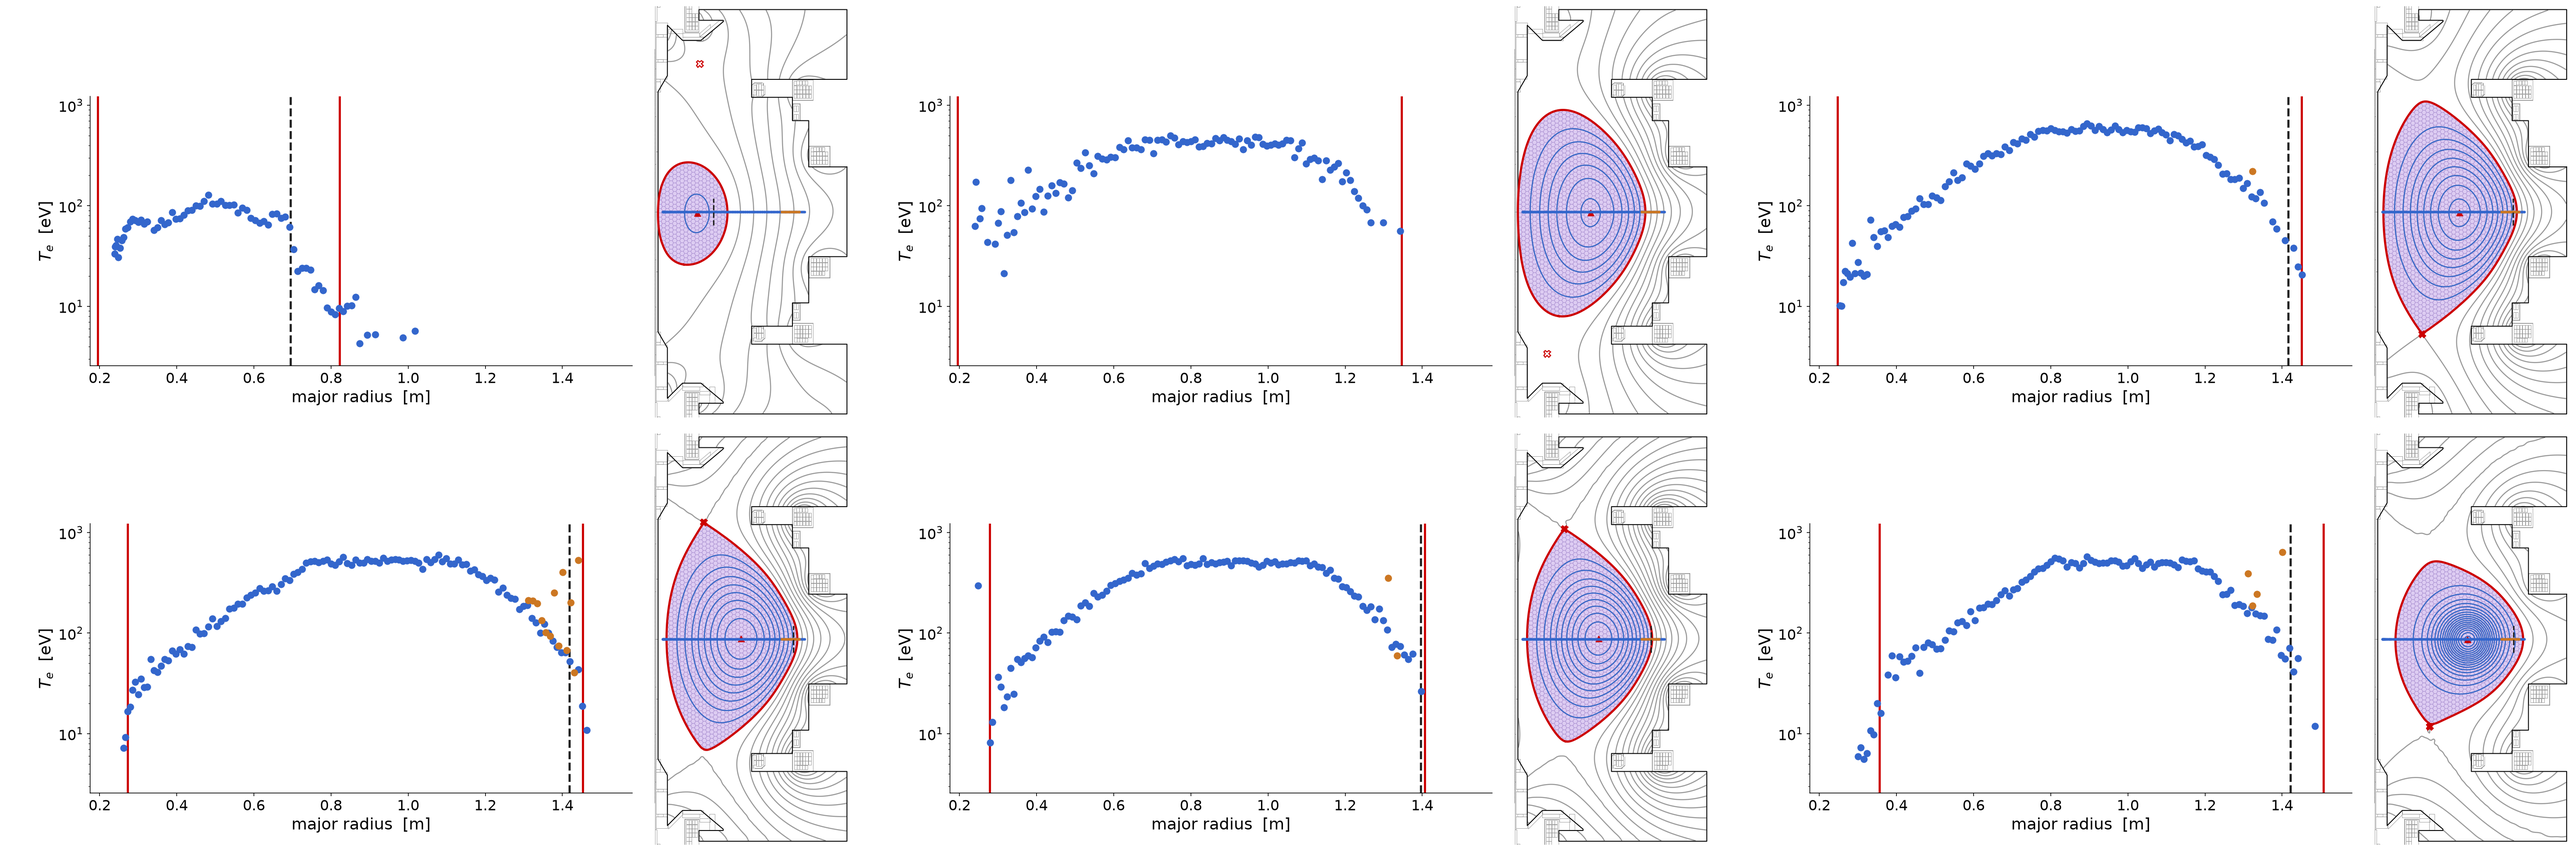
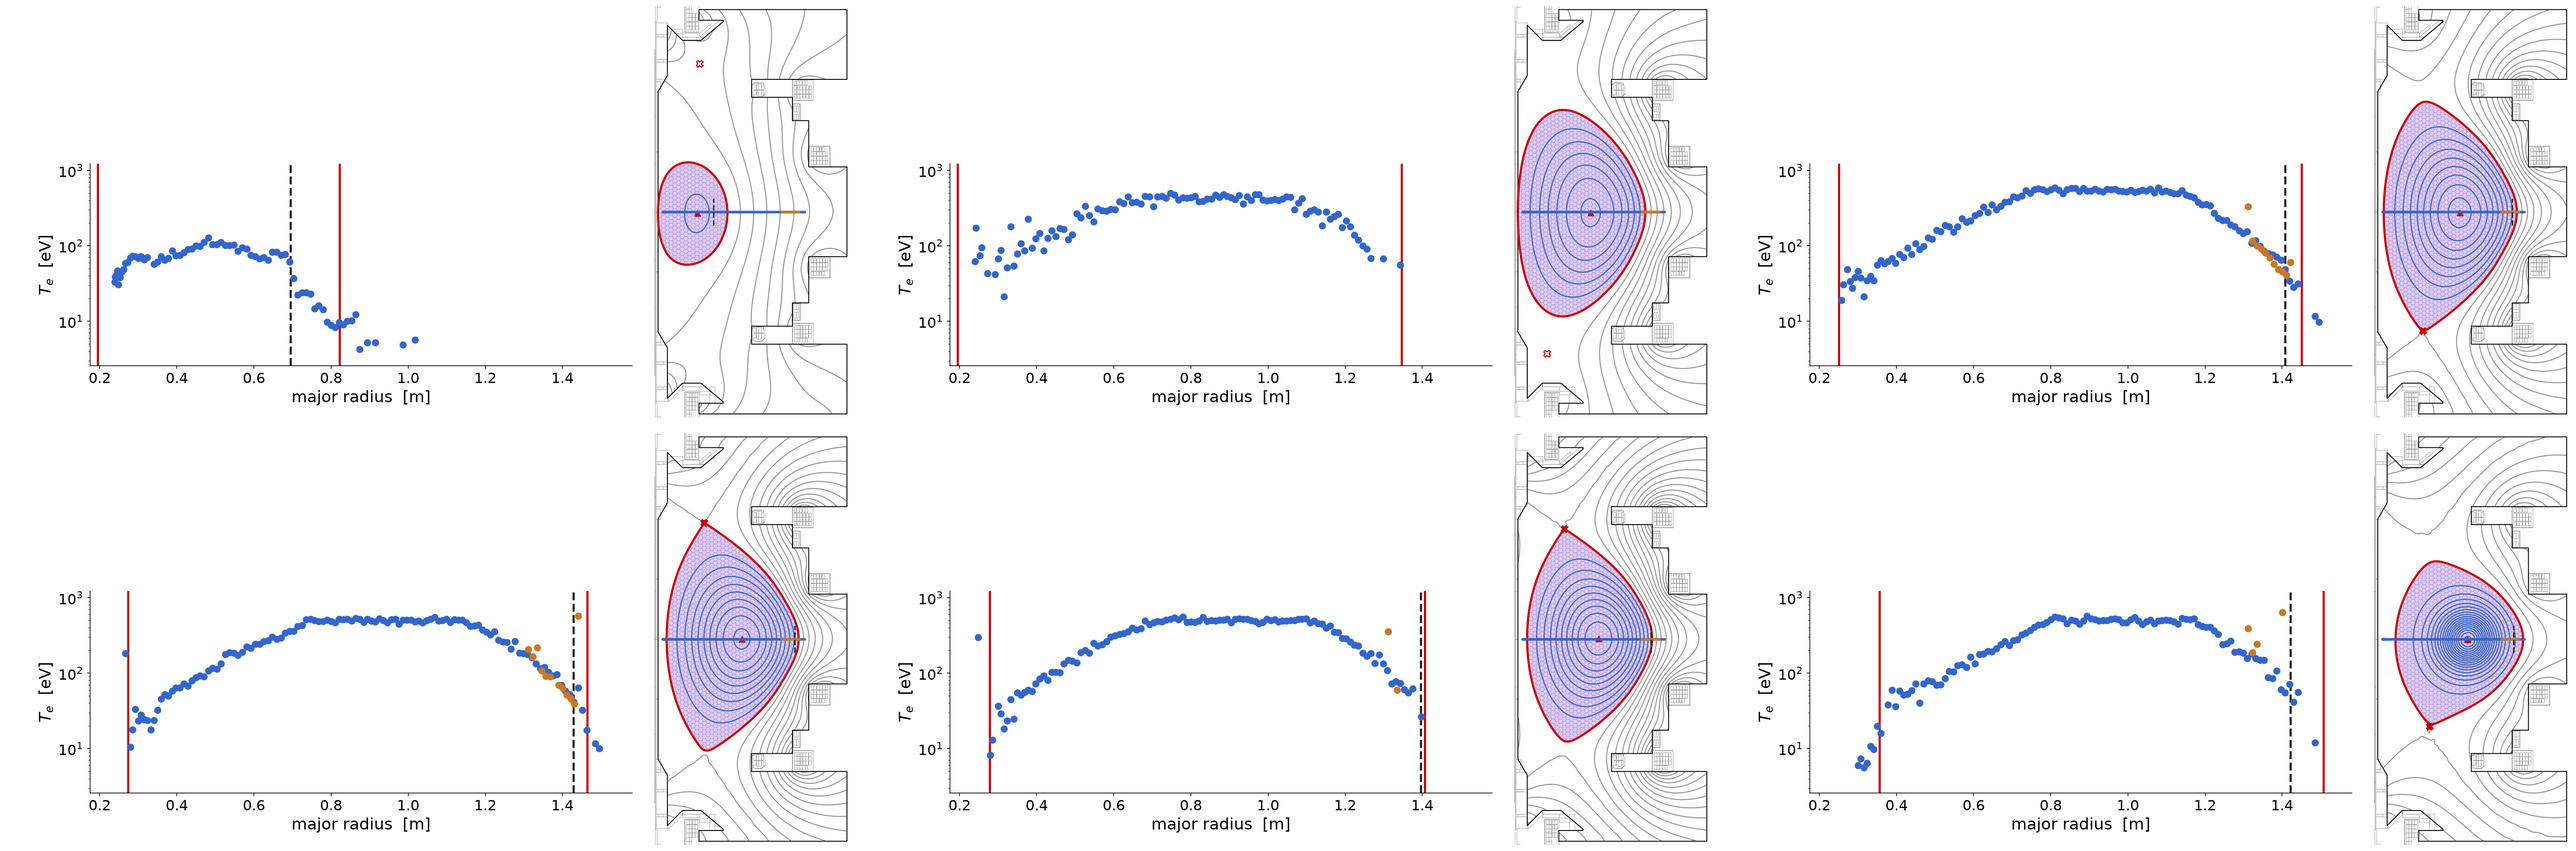
feat(media): shorten the Te graph to three quarters of its column
The Te graph keeps its bottom edge and is 0.75 of the column height below
the title room; the space it gives up opens above it. 100 pinned slices.

diff --git a/scripts/media/nova_thomson_gif.py b/scripts/media/nova_thomson_gif.py
@@ -64,6 +64,10 @@ SLIDE_TICK_FONTSIZE = 16.0
 #: Margin around the first wall in the cropped poloidal panel, in metres.
 WALL_MARGIN = 0.03
 
+#: Height of the graph as a fraction of the column below the title room; the
+#: graph keeps its bottom edge and the space it gives up opens above it.
+GRAPH_HEIGHT_FRACTION = 0.75
+
 #: Room above the graph column for the slide title, in inches.
 TITLE_ROOM = 1.5
 
@@ -99,7 +103,7 @@ def slide_view(extent, style):
             panel_height / SLIDE_HEIGHT,
         )
     )
-    graph_height = SLIDE_HEIGHT - TITLE_ROOM - bottom
+    graph_height = GRAPH_HEIGHT_FRACTION * (SLIDE_HEIGHT - TITLE_ROOM - bottom)
     upper = figure.add_axes(
         (
             left / width,
